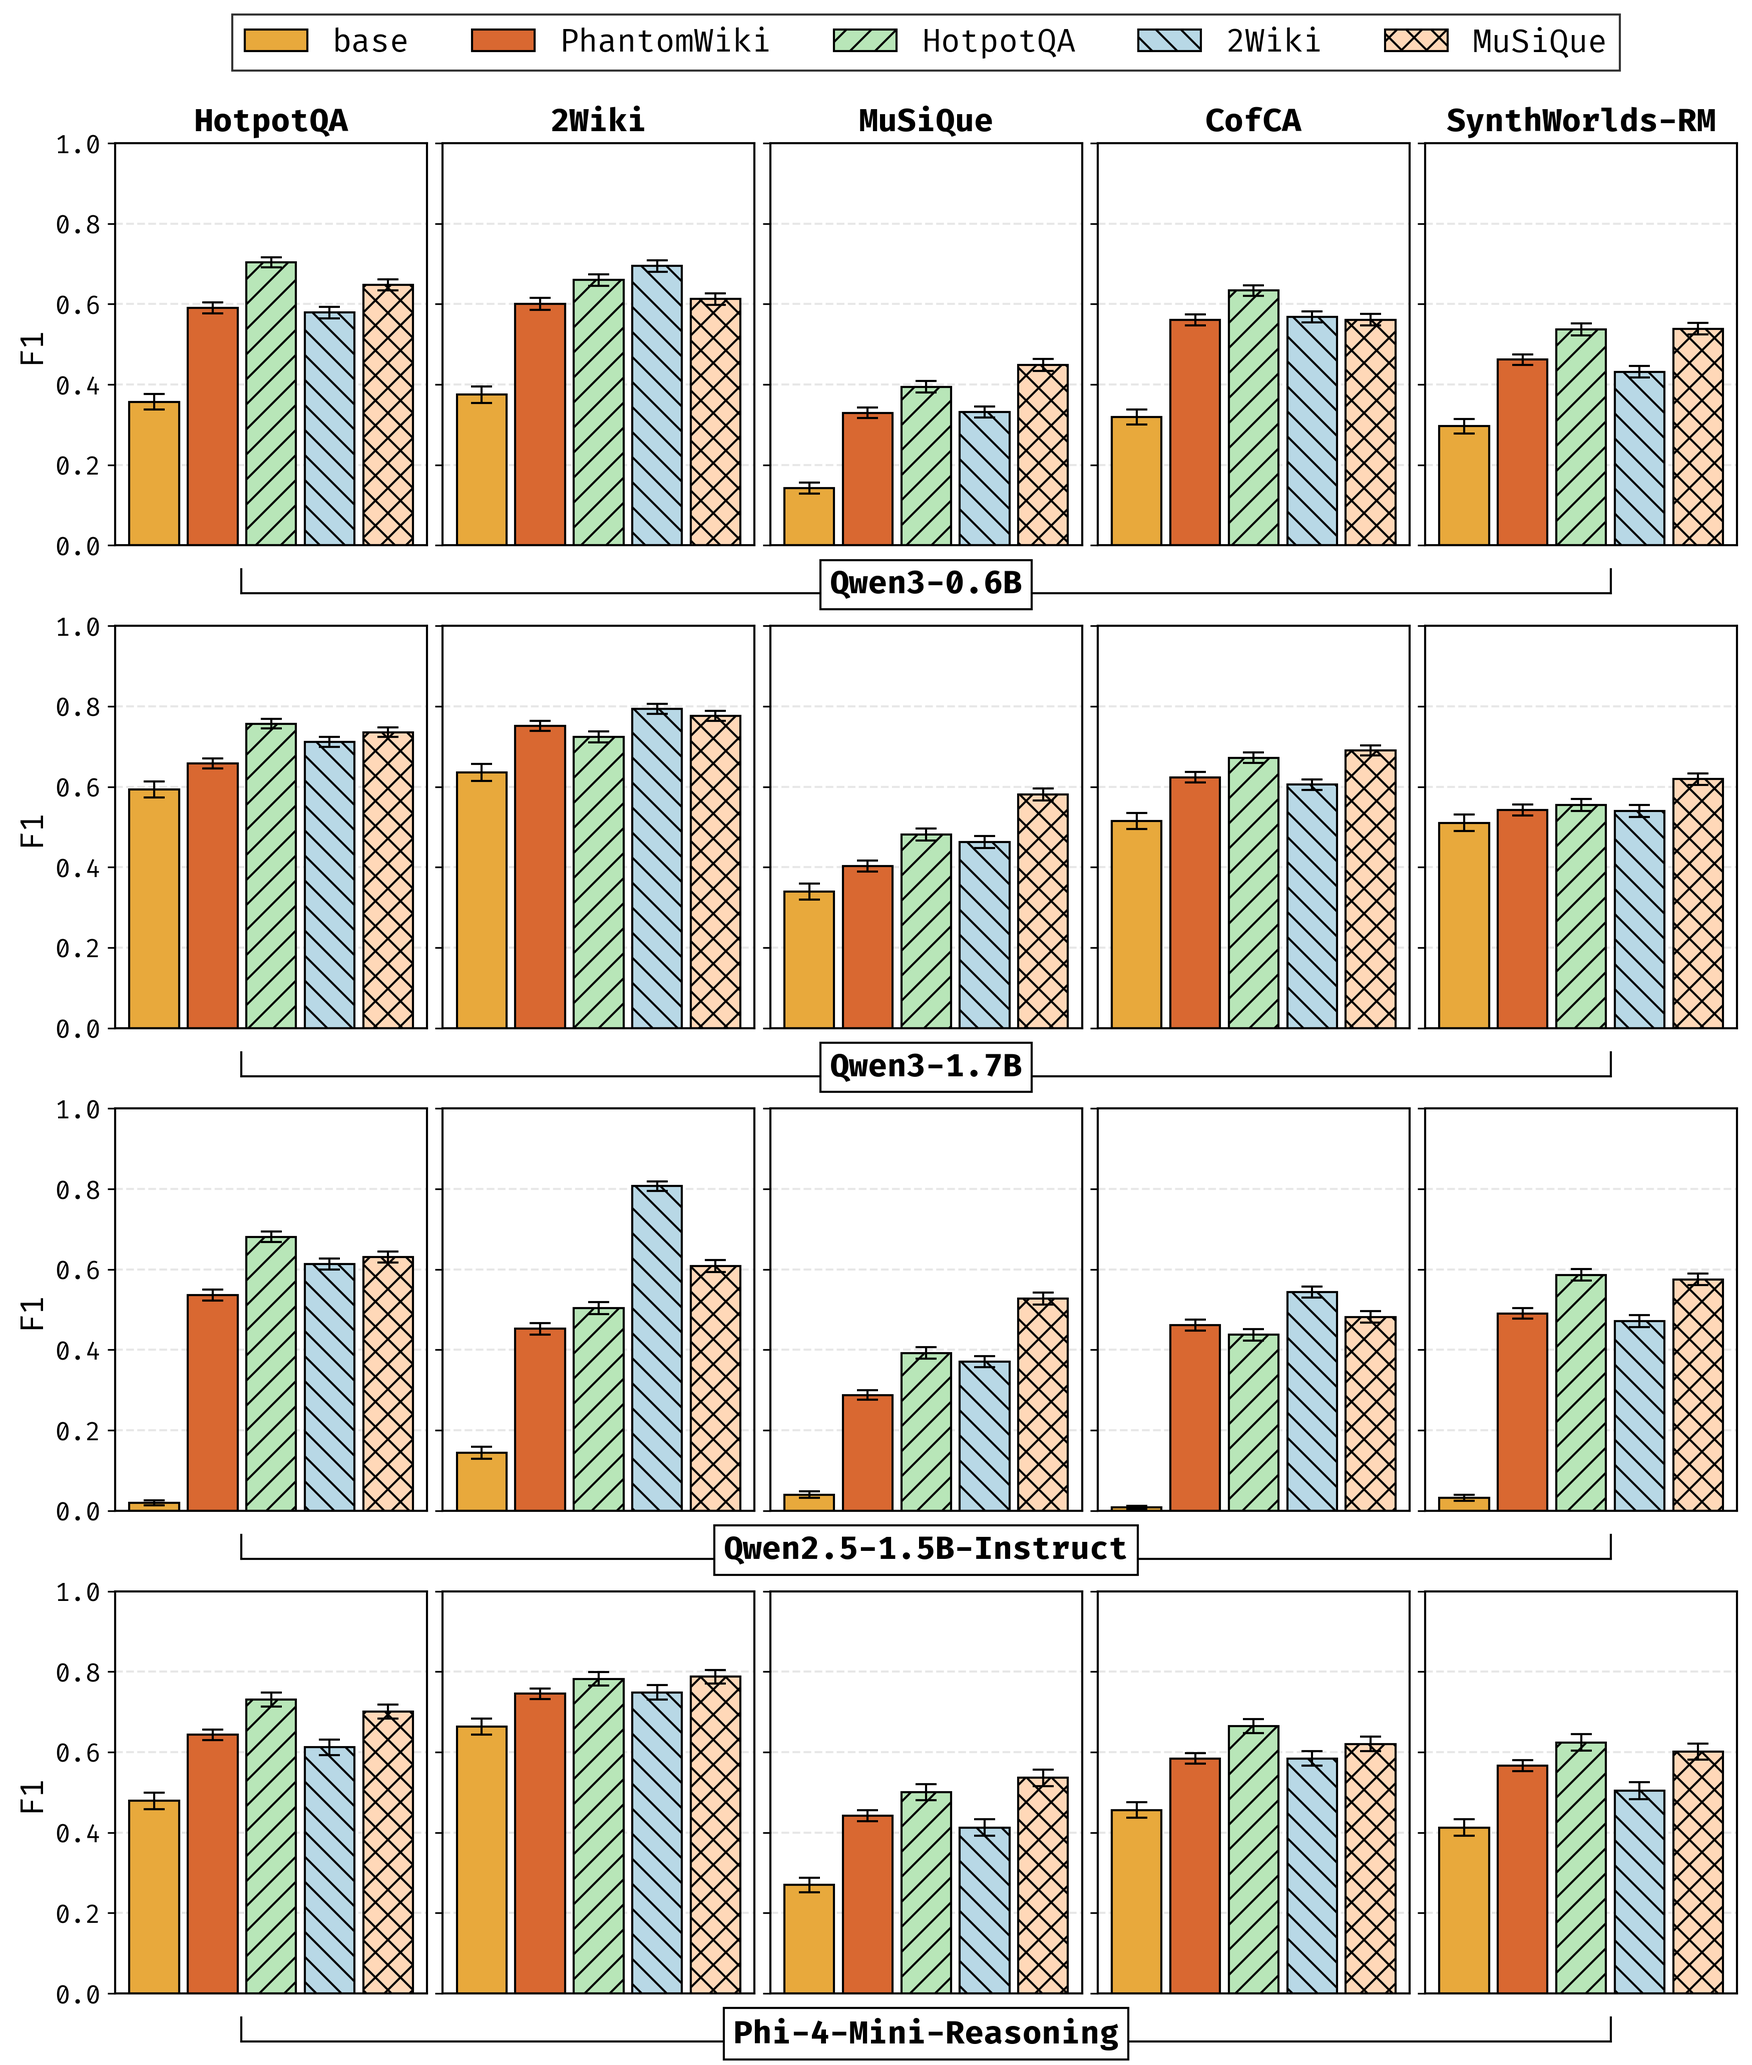
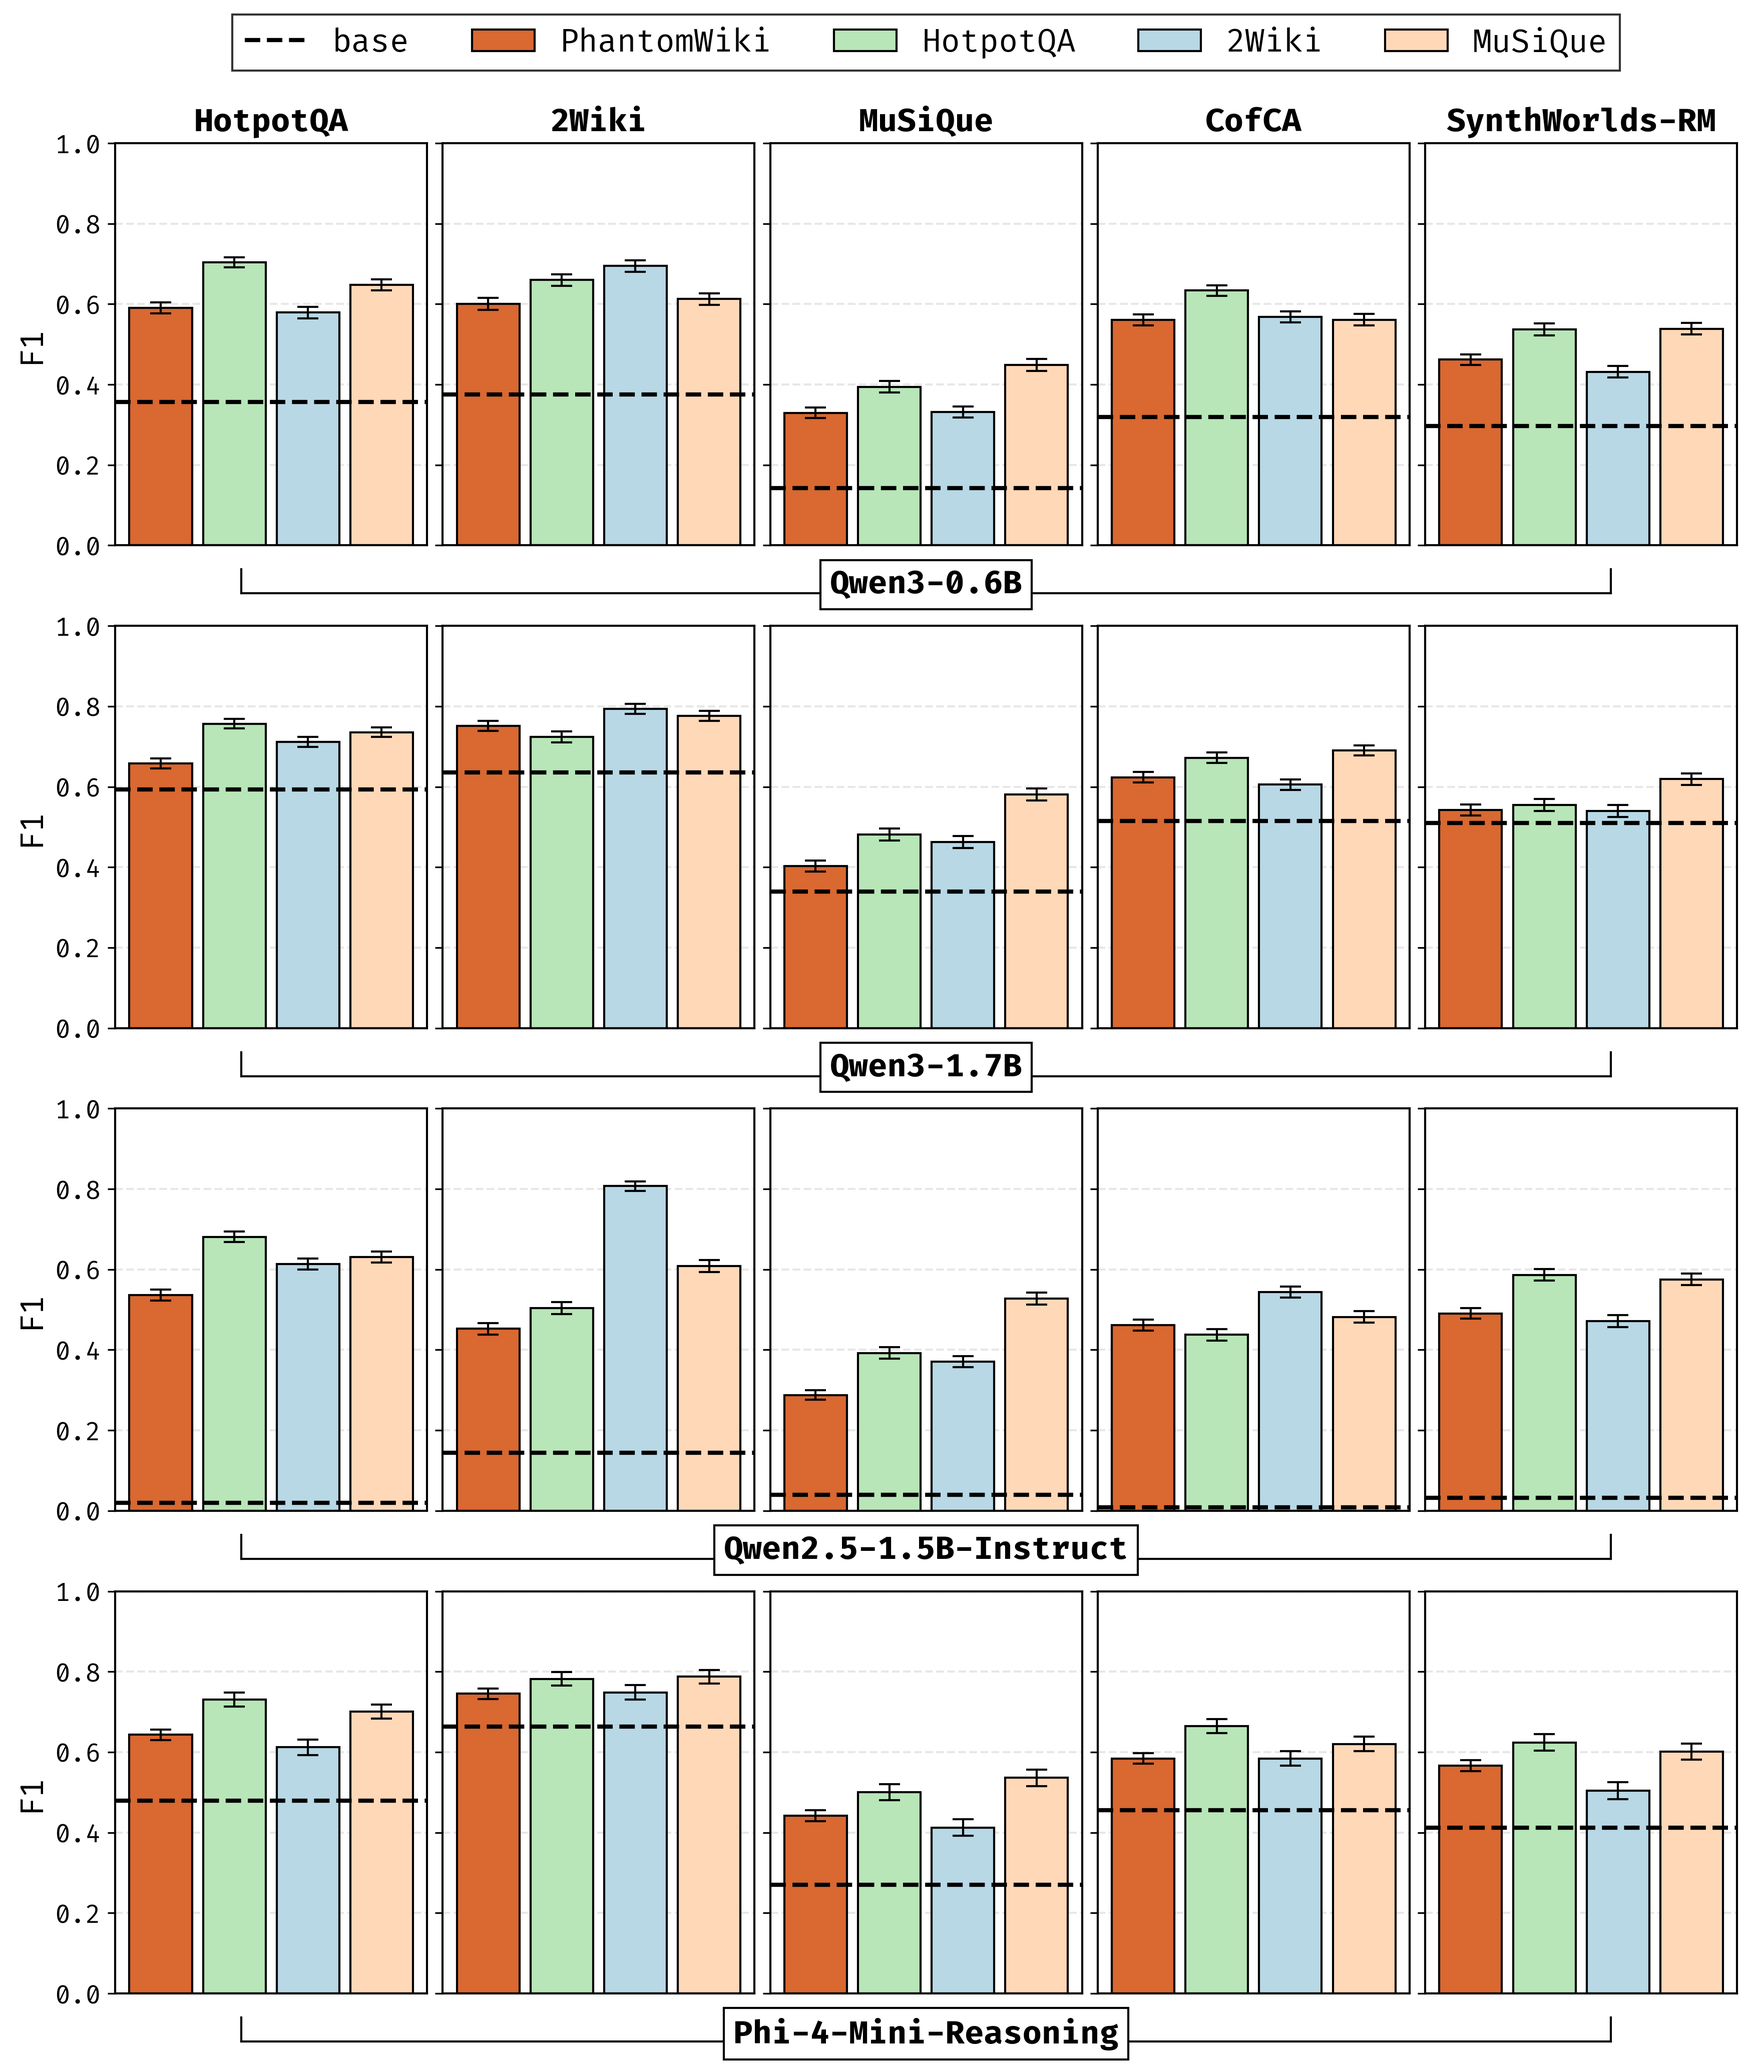
Remove hatches from real world plots, use dash black line for base

diff --git a/examples/wiki/create_bar_plots_performance_realworld.py b/examples/wiki/create_bar_plots_performance_realworld.py
@@ -2,6 +2,7 @@ import argparse
 import json
 from pathlib import Path
 
+import matplotlib.lines as mlines
 import matplotlib.pyplot as plt
 import numpy as np
 import pandas as pd
@@ -58,6 +59,7 @@ models_for_table_results = [
     "Qwen2.5-7B-Instruct",
 ]
 train_dataset_names = ["base", "pw", "hp", "2wiki", "msq"]
+train_dataset_names_for_bars = ["pw", "hp", "2wiki", "msq"]
 train_dataset_alias2name = {
     "base": plotting_utils.TRAIN_DATASET_ALIAS2NAME["base"],
     "pw": plotting_utils.TRAIN_DATASET_ALIAS2NAME["pw"],
@@ -87,13 +89,11 @@ TRAIN_DATASET_COLORS = {
     "msq": "#FFD8B8",  # Pastel orange
 }
 
-TRAIN_DATASET_HATCHES = {
-    "base": "",  # no hatch
-    "pw": "",  # no hatch
-    "hp": "//",  # vertical hatch
-    "2wiki": "\\\\",  # vertical hatch
-    "msq": "xx",  # cross hatch
-}
+# BASE_COLOR = TRAIN_DATASET_COLORS["base"]
+# NOTE: we use black for the base line to make it more visible
+BASE_COLOR = "black"
+BASE_LINE_WIDTH = 2
+BASE_LINE_STYLE = "dashed"
 
 LABEL_FONT_SIZE = plotting_utils.LABEL_FONT_SIZE + 2
 TICK_FONT_SIZE = plotting_utils.TICK_FONT_SIZE + 2
@@ -113,22 +113,33 @@ def create_bar_plot_for_model(
 ):
     # Bar settings
     bar_width = 0.85
-    x_pos = np.arange(len(train_dataset_names))
+    x_pos = np.arange(len(train_dataset_names_for_bars))
     EDGE_COLOR = "black"
 
     # Create bars for each subplot
     for j, dataset in enumerate(eval_dataset_names):
         ax = axes[j]
 
-        # Get values for this model-dataset combination
-        values = [mean_data[model][dataset][train_dataset_name] for train_dataset_name in train_dataset_names]
-        errors = [std_data[model][dataset][train_dataset_name] for train_dataset_name in train_dataset_names]
+        # Draw a horizontal dashed line at the base F1 value
+        base_value = mean_data[model][dataset]["base"]
+        ax.axhline(
+            y=base_value, color=BASE_COLOR, linestyle=BASE_LINE_STYLE, linewidth=BASE_LINE_WIDTH, zorder=3
+        )
+
+        # Get values for this model-dataset combination (trained models only)
+        values = [
+            mean_data[model][dataset][train_dataset_name]
+            for train_dataset_name in train_dataset_names_for_bars
+        ]
+        errors = [
+            std_data[model][dataset][train_dataset_name]
+            for train_dataset_name in train_dataset_names_for_bars
+        ]
 
         # Create bars with error bars
-        colors = [TRAIN_DATASET_COLORS[label] for label in train_dataset_names]
-        hatches = [TRAIN_DATASET_HATCHES[label] for label in train_dataset_names]
+        colors = [TRAIN_DATASET_COLORS[label] for label in train_dataset_names_for_bars]
 
-        bars = ax.bar(
+        _ = ax.bar(
             x_pos,
             values,
             bar_width,
@@ -138,10 +149,6 @@ def create_bar_plot_for_model(
             linewidth=LINE_WIDTH,
             error_kw={"linewidth": LINE_WIDTH, "ecolor": "black", "capsize": 5},
         )
-
-        # Apply hatches to bars
-        for bar, hatch in zip(bars, hatches):
-            bar.set_hatch(hatch)
 
         # Customize subplot
         ax.set_ylim(0, max(yticks))
@@ -374,13 +381,21 @@ if __name__ == "__main__":
 
     # Create legend with better styling
     legend_elements = [
+        mlines.Line2D(
+            [],
+            [],
+            color=BASE_COLOR,
+            linestyle=BASE_LINE_STYLE,
+            linewidth=BASE_LINE_WIDTH,
+            label=train_dataset_alias2name["base"],
+        ),
+    ] + [
         Patch(
             facecolor=TRAIN_DATASET_COLORS[train_dataset_name],
             edgecolor="black",
-            hatch=TRAIN_DATASET_HATCHES[train_dataset_name],
             label=train_dataset_alias2name[train_dataset_name],
         )
-        for train_dataset_name in train_dataset_names
+        for train_dataset_name in train_dataset_names_for_bars
     ]
 
     # Position legend at the top center
